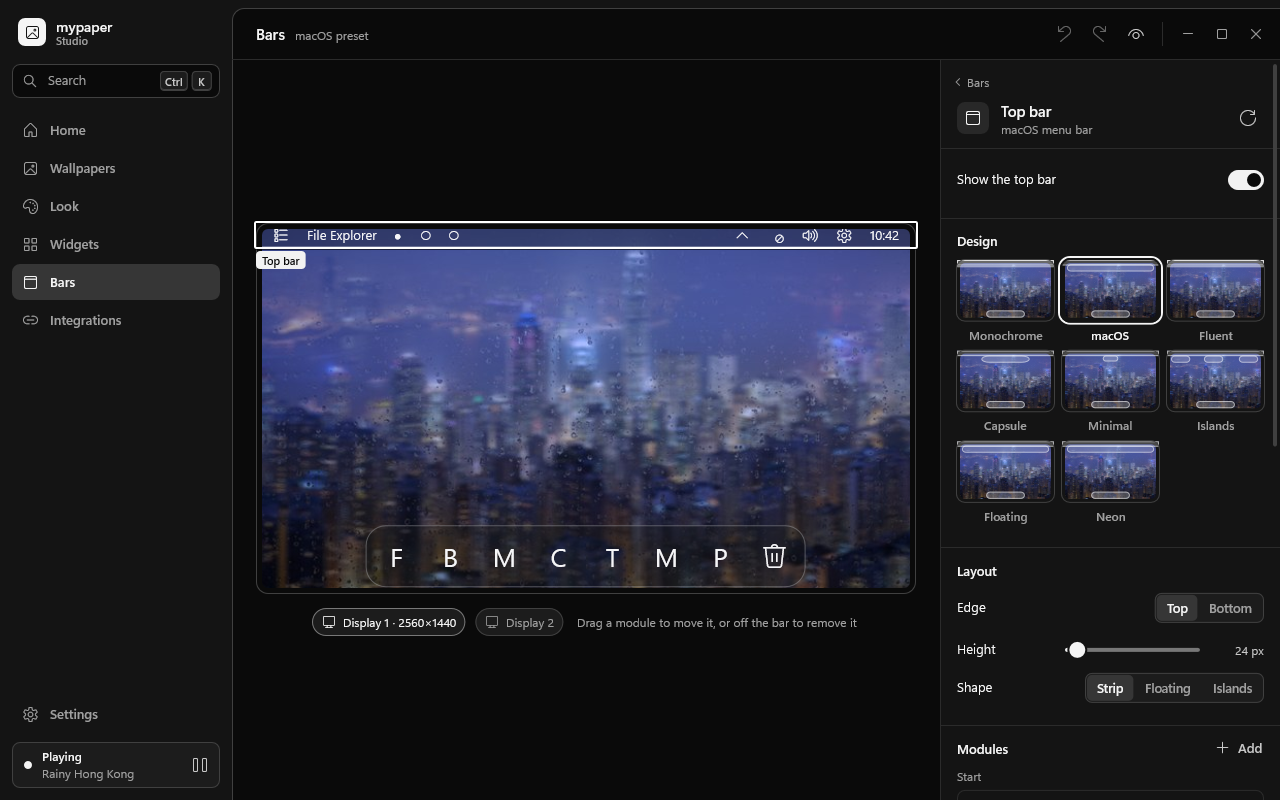
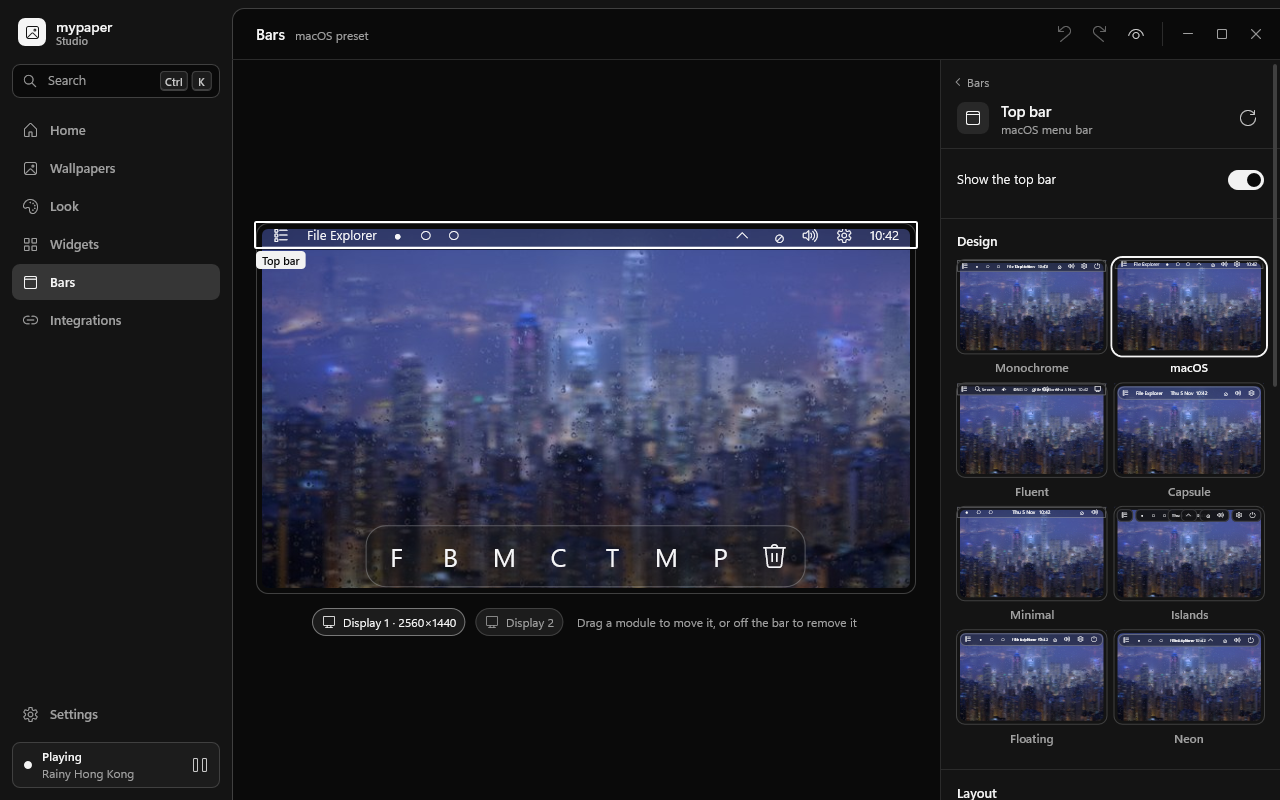
studio: design tiles are the shell's real bar views (built a frame after a tile asks for its size)

Changed region(s): [[0.75, 0.3125, 1.0, 1.0]]

diff --git a/crates/studio/src/stage.rs b/crates/studio/src/stage.rs
@@ -65,10 +65,43 @@ pub struct Content {
     pub grid: Option<(Grid, f32)>,
 }
 
+/// One design's thumbnail for the Bars inspector: its bar, drawn by the shell's view on a
+/// 400-pixel-wide screen scaled to the tile (room for its modules, large enough to read its
+/// shape), in tile-local pixels.
+pub struct Thumb {
+    pub design: &'static str,
+    pub ops: Vec<Op>,
+    pub shapes: Vec<Shape>,
+}
+
+/// The design thumbnails. A tile asks for its size while the frame is built (`want`); the next
+/// frame builds them ([`prepare_designs`]), so they are always the tile's exact size.
+#[derive(Default)]
+pub struct Designs {
+    pub want: Option<(Bar, (u32, u32))>,
+    /// What `thumbs` were built for: the bar, the size, the documents' version.
+    built: Option<(Bar, (u32, u32), u64)>,
+    pub thumbs: Vec<Thumb>,
+}
+
+impl Designs {
+    /// A tile asked for thumbnails that aren't built yet.
+    pub fn pending(&self, version: u64) -> bool {
+        self.want.is_some_and(|(bar, size)| self.built != Some((bar, size, version)))
+    }
+
+    /// `design`'s thumbnail, if built for this bar and size.
+    pub fn get(&self, bar: Bar, size: (u32, u32), design: &str) -> Option<&Thumb> {
+        let built = self.built.is_some_and(|(b, s, _)| b == bar && s == size);
+        built.then(|| self.thumbs.iter().find(|t| t.design == design)).flatten()
+    }
+}
+
 #[derive(Default)]
 pub struct Cache {
     key: u64,
     pub content: Content,
+    pub designs: Designs,
     images: Option<shell::bars::Images>,
     /// The shell's app-icon service (names and icons of pinned apps), started on first use.
     icons: Option<(mypaper_bars::icons::Icons, std::sync::mpsc::Receiver<mypaper_bars::wake::Msg>)>,
@@ -172,13 +205,7 @@ fn build(
     );
     // Bars.
     if let Ok(config) = bars_config(app, &monitor) {
-        let theme_appearance = loaded
-            .as_ref()
-            .and_then(|t| t.theme.bars.as_ref())
-            .and_then(|s| s.appearance.clone())
-            .unwrap_or_default();
-        let appearance = config.appearance.over(&theme_appearance);
-        let system = if app.fixture { fixed_accent() } else { mypaper_bars::accent::read() };
+        let (appearance, system) = bar_base(app, &config, loaded.as_ref());
         let model = shell::bars::sample_model(clock(app), "File Explorer");
         let mut bar_ops = Vec::new();
         if config.top.enabled && config.top.monitors.includes(&monitor.device, monitor.primary) {
@@ -218,6 +245,85 @@ fn build(
         Show::Desktop | Show::Widgets => widgets(app, ui, &mut out, &monitor, scale, loaded.as_ref()),
     }
     out
+}
+
+/// What every bar view needs besides its config: the base appearance (the file's over the
+/// wallpaper's) and the system accent.
+fn bar_base(
+    app: &App,
+    config: &BarsConfig,
+    loaded: Option<&mypaper_theme::LoadedTheme>,
+) -> (mypaper_theme::Appearance, mypaper_bars::accent::System) {
+    let theme = loaded
+        .and_then(|t| t.theme.bars.as_ref())
+        .and_then(|s| s.appearance.clone())
+        .unwrap_or_default();
+    let system = if app.fixture { fixed_accent() } else { mypaper_bars::accent::read() };
+    (config.appearance.over(&theme), system)
+}
+
+/// Builds the design thumbnails a tile asked for, if they aren't already (see [`Designs`]).
+pub fn prepare_designs(app: &App, ui: &mut Ui) {
+    let mut cache = app.stage.borrow_mut();
+    let Some((bar, size)) = cache.designs.want.take() else { return };
+    let version = app.docs.version;
+    if cache.designs.built == Some((bar, size, version)) {
+        return;
+    }
+    let Some(monitor) = app.display().cloned() else { return };
+    let Ok(base) = bars_config(app, &monitor) else { return };
+    let theme_dir = theme_name(&app.docs).and_then(|t| mypaper_theme::locate(Some(&t)).ok());
+    let loaded = theme_dir.as_deref().and_then(|d| mypaper_theme::LoadedTheme::load(d).ok());
+    let Cache { images, icons, designs, .. } = &mut *cache;
+    let images = images.get_or_insert_with(shell::bars::Images::default);
+    let mut icons = icons.as_mut().map(|(i, _)| i);
+    let scale = size.0 as f32 / 400.0;
+    let model = shell::bars::sample_model(clock(app), "File Explorer");
+    let list: &[(&'static str, &str)] = match bar {
+        Bar::Top => &crate::pages::bars::TOP_DESIGNS,
+        Bar::Dock => &crate::pages::bars::DOCK_DESIGNS,
+    };
+    designs.thumbs.clear();
+    for &(design, _) in list {
+        // The file as it is, with this design: the bars resolve it exactly as on the desktop.
+        let mut raw = app.docs.doc(DocId::Bars).raw.clone();
+        let op = crate::docs::Op { doc: DocId::Bars, path: format!("/{}/design", bar.key()), value: Some(json!(design)) };
+        crate::docs::apply_op(&mut raw, &op);
+        let Ok(mut config) = BarsConfig::parse(&raw.to_string()).and_then(|c| c.for_monitor(&monitor.device, monitor.primary)) else {
+            continue;
+        };
+        config.dock.pinned = base.dock.pinned.clone();
+        config.resolve(shell::bars::default_pins);
+        let (appearance, system) = bar_base(app, &config, loaded.as_ref());
+        let (frame, at, tokens) = match bar {
+            Bar::Top => {
+                let tokens = shell::bars::Tokens::resolve(&config.top.look, &appearance, &system);
+                let frame = shell::bars::top(size.0, &config, &model, &tokens, scale, ui, images, None);
+                let y = if config.top.position == mypaper_bars::config::TopPosition::Bottom { size.1 as f32 - frame.size.1 as f32 } else { 0.0 };
+                (frame, (0.0, y), tokens)
+            }
+            Bar::Dock => {
+                let tokens = shell::bars::Tokens::resolve(&config.dock.look, &appearance, &system);
+                let apps = dock_apps(&config, icons.as_deref_mut());
+                let frame = shell::bars::dock(&config, &model, &apps, &tokens, scale, size, &[], &[], ui, images, None);
+                let (w, h) = (frame.size.0 as f32, frame.size.1 as f32);
+                let margin = config.dock.margin.unwrap_or(6.0) as f32 * scale;
+                let at = match config.dock.position {
+                    mypaper_bars::config::DockPosition::Bottom => ((size.0 as f32 - w) / 2.0, size.1 as f32 - h - margin),
+                    mypaper_bars::config::DockPosition::Top => ((size.0 as f32 - w) / 2.0, margin),
+                    mypaper_bars::config::DockPosition::Left => (margin, (size.1 as f32 - h) / 2.0),
+                    mypaper_bars::config::DockPosition::Right => (size.0 as f32 - w - margin, (size.1 as f32 - h) / 2.0),
+                };
+                (frame, at, tokens)
+            }
+        };
+        designs.thumbs.push(Thumb {
+            design,
+            ops: offset(&frame.list.ops, at.0, at.1).collect(),
+            shapes: frame.shapes.iter().map(|(r, radius)| shape(r.offset(at.0, at.1), *radius, &tokens)).collect(),
+        });
+    }
+    designs.built = Some((bar, size, version));
 }
 
 /// The bars' config as this display sees it (overrides applied, pins resolved).
@@ -609,6 +715,17 @@ pub fn offset(ops: &[Op], dx: f32, dy: f32) -> impl Iterator<Item = Op> + '_ {
     })
 }
 
+/// The flat stand-in for engine glass: the tint, a little stronger than clarity says (there's
+/// no blur under it), and the rim's hairline. `shapes` move by `(dx, dy)`.
+pub fn stand_in(b: &mut B, shapes: &[Shape], dx: f32, dy: f32) {
+    for s in shapes {
+        let alpha = 0.28 + (1.0 - s.clarity).clamp(0.0, 1.0) * 0.55;
+        let rect = s.rect.offset(dx, dy);
+        b.fill(rect, s.radius, s.tint.with_alpha(alpha.min(0.9)));
+        b.stroke(rect, s.radius, 1.0, Rgba::new(1.0, 1.0, 1.0, 0.14));
+    }
+}
+
 /// Draws the stage at `frame` and registers its items; returns them in window pixels. `pick`
 /// says what clicking an item does (and `None` for the bare wallpaper).
 pub fn draw(app: &App, b: &mut B, frame: Rect, show: Show, pick: impl Fn(Option<&Item>) -> Action) -> Vec<Item> {
@@ -635,14 +752,7 @@ pub fn draw(app: &App, b: &mut B, frame: Rect, show: Show, pick: impl Fn(Option<
         b.list.ops.extend(offset(&c.dim, frame.left, frame.top).map(|op| dim(op, 0.42)));
     }
     if !engine {
-        for s in &c.shapes {
-            // The flat stand-in for engine glass: the tint, a little stronger than clarity
-            // says (there's no blur under it), and the rim's hairline.
-            let alpha = 0.28 + (1.0 - s.clarity).clamp(0.0, 1.0) * 0.55;
-            let rect = s.rect.offset(frame.left, frame.top);
-            b.fill(rect, s.radius, s.tint.with_alpha(alpha.min(0.9)));
-            b.stroke(rect, s.radius, 1.0, Rgba::new(1.0, 1.0, 1.0, 0.14));
-        }
+        stand_in(b, &c.shapes, frame.left, frame.top);
     }
     b.list.ops.extend(offset(&c.ops, frame.left, frame.top));
     // Rounded corners: a ring in the page colour covers the picture's square corners.

diff --git a/crates/studio/src/pages/bars.rs b/crates/studio/src/pages/bars.rs
@@ -29,7 +29,7 @@ const PRESETS: [(&str, &str); 7] = [
     ("floating", "Floating"),
 ];
 
-const TOP_DESIGNS: [(&str, &str); 8] = [
+pub const TOP_DESIGNS: [(&str, &str); 8] = [
     ("monochrome", "Monochrome"),
     ("macos", "macOS"),
     ("fluent", "Fluent"),
@@ -40,7 +40,7 @@ const TOP_DESIGNS: [(&str, &str); 8] = [
     ("neon", "Neon"),
 ];
 
-const DOCK_DESIGNS: [(&str, &str); 9] = [
+pub const DOCK_DESIGNS: [(&str, &str); 9] = [
     ("monochrome", "Monochrome"),
     ("macos", "macOS"),
     ("windows11", "Windows 11"),
@@ -230,8 +230,8 @@ fn overview(app: &App, b: &mut B, col: &mut Col, config: &BarsConfig) {
     }
 }
 
-/// A preset's silhouette: where its bars sit.
-fn silhouette(app: &App, b: &mut B, preset: &str, pic: Rect) {
+/// A tile's picture: your wallpaper, framed.
+fn wallpaper_tile(app: &App, b: &mut B, pic: Rect) {
     if let Some(still) = app.library.active().and_then(|i| app.library.items[i].preview.clone())
         && let Some(image) = app.images.borrow_mut().get(&still, (pic.width() as u32 * 2, pic.height() as u32 * 2))
     {
@@ -240,6 +240,11 @@ fn silhouette(app: &App, b: &mut B, preset: &str, pic: Rect) {
         b.fill(pic, b.px(8.0), mypaper_ui::Rgba::rgb8([0x2a, 0x30, 0x4a], 1.0));
     }
     b.stroke(pic.inflate(b.px(3.0)), b.px(11.0), b.px(6.0), b.p.chrome);
+}
+
+/// A preset's silhouette: where its bars sit.
+fn silhouette(app: &App, b: &mut B, preset: &str, pic: Rect) {
+    wallpaper_tile(app, b, pic);
     let glass = mypaper_ui::Rgba::new(1.0, 1.0, 1.0, 0.22);
     let rim = mypaper_ui::Rgba::new(1.0, 1.0, 1.0, 0.55);
     let (w, h) = (pic.width(), pic.height());
@@ -288,7 +293,7 @@ fn bar_inspector(app: &App, b: &mut B, col: &mut Col, config: &BarsConfig, bar: 
         let edit = Edit::new(DocId::Bars, format!("/{}/design", bar.key()), "Design");
         let items: Vec<(&str, bool, Action)> = designs.iter().map(|(id, n)| (*n, *id == current, Action::Set(edit.clone(), json!(id)))).collect();
         crate::ui::anchor(app, if bar == Bar::Top { "top_design" } else { "dock_design" }, c.view, c.y);
-        crate::ui::tiles(b, c, key(("designs", name)), 3, false, &items, |b, i, pic| design_tile(app, b, bar, designs[i].0, pic));
+        crate::ui::tiles(b, c, key(("designs", name)), 2, false, &items, |b, i, pic| design_tile(app, b, bar, designs[i].0, pic));
     });
     section(b, col, "Layout", |b, c| {
         let ids: &[&str] = if bar == Bar::Top { &["top_edge", "top_height", "top_shape"] } else { &["dock_style", "dock_edge", "dock_size", "dock_autohide", "dock_magnify"] };
@@ -359,9 +364,22 @@ fn extras(app: &App, b: &mut B, c: &mut Col, config: &BarsConfig) {
     crate::ui::anchor(app, "dock_extras", c.view, c.y);
 }
 
-/// A design's thumbnail: the design's own bar, real view, over the wallpaper.
+/// A design's thumbnail: its bar drawn by the shell's own view over the wallpaper. The tile
+/// asks for its size here and the next frame builds it (`stage::prepare_designs`); until then,
+/// and if the design can't be built, an outline of its shape.
 fn design_tile(app: &App, b: &mut B, bar: Bar, design: &str, pic: Rect) {
-    silhouette(app, b, "none", pic);
+    wallpaper_tile(app, b, pic);
+    let size = (pic.width() as u32, pic.height() as u32);
+    let mut cache = app.stage.borrow_mut();
+    cache.designs.want = Some((bar, size));
+    if let Some(thumb) = cache.designs.get(bar, size, design) {
+        crate::stage::stand_in(b, &thumb.shapes, pic.left, pic.top);
+        b.list.ops.push(mypaper_ui::Op::Clip { rect: pic });
+        b.list.ops.extend(crate::stage::offset(&thumb.ops, pic.left, pic.top));
+        b.list.ops.push(mypaper_ui::Op::Unclip);
+        return;
+    }
+    drop(cache);
     let glass = mypaper_ui::Rgba::new(1.0, 1.0, 1.0, 0.18);
     let rim = mypaper_ui::Rgba::new(1.0, 1.0, 1.0, 0.5);
     let (w, h) = (pic.width(), pic.height());

diff --git a/crates/studio/src/goldens.rs b/crates/studio/src/goldens.rs
@@ -43,13 +43,18 @@ pub fn app(dark: bool, ui: &Ui) -> App {
     App::fixture(docs, Theme::fixed(dark, &ui.text), library, (1280, 800))
 }
 
-/// One frame of `app`, as the window would show it.
+/// `app` as the window would show it once settled (design thumbnails take a second frame).
 pub fn shot(app: &mut App, ui: &mut Ui) -> mypaper_ui::Image {
-    if let Some((frame, show)) = crate::pages::stage(app) {
-        crate::stage::prepare(app, ui, (frame.width() as u32, frame.height() as u32), show);
+    loop {
+        if let Some((frame, show)) = crate::pages::stage(app) {
+            crate::stage::prepare(app, ui, (frame.width() as u32, frame.height() as u32), show);
+        }
+        crate::stage::prepare_designs(app, ui);
+        let built = crate::view::build(app, &mut ui.text);
+        if !app.stage.borrow().designs.pending(app.docs.version) {
+            return render(ui, &built.list, app.size.0, app.size.1).unwrap();
+        }
     }
-    let built = crate::view::build(app, &mut ui.text);
-    render(ui, &built.list, app.size.0, app.size.1).unwrap()
 }
 
 fn check(name: &str, dark: bool, setup: impl Fn(&mut App)) {

diff --git a/crates/studio/src/main.rs b/crates/studio/src/main.rs
@@ -94,6 +94,7 @@ impl Studio {
         if let Some((frame, show)) = pages::stage(app) {
             stage::prepare(app, ui, (frame.width() as u32, frame.height() as u32), show);
         }
+        stage::prepare_designs(app, ui);
         let built = view::build(app, &mut ui.text);
         surface.set_chrome(&built.chrome);
         surface.set_background(app.theme.palette.chrome);
@@ -109,6 +110,11 @@ impl Studio {
             log::error!("drawing: {e:#}");
         }
         app.dirty = false;
+        // A design tile asked for thumbnails this frame: build them in the next one.
+        if app.stage.borrow().designs.pending(app.docs.version) {
+            app.dirty = true;
+            crate::wake(app.thread);
+        }
         app.settle_reveal();
         // Text cursor over fields, an arrow elsewhere.
         let over_field = app
